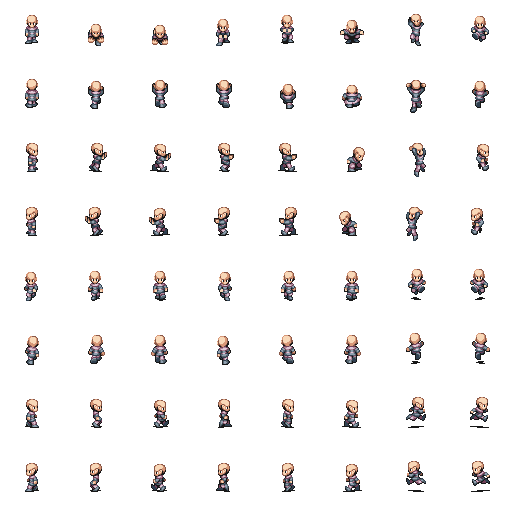
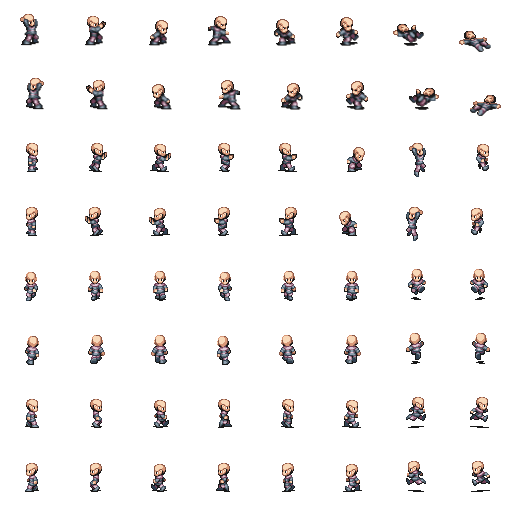
Added new animations and new scale entity function in animation render component.

diff --git a/source/core/src/main/com/csse3200/game/components/player/PlayerAnimationController.java b/source/core/src/main/com/csse3200/game/components/player/PlayerAnimationController.java
@@ -11,6 +11,7 @@ import com.badlogic.gdx.math.Vector2;
 public class PlayerAnimationController extends Component {
     AnimationRenderComponent animator;
     private boolean facingRight = true;
+    private boolean sprinting = false;
 
     @Override
     public void create() {
@@ -19,16 +20,24 @@ public class PlayerAnimationController extends Component {
         entity.getEvents().addListener("walk", this::animateWalk);
         entity.getEvents().addListener("walkStop", this::animateStop);
         entity.getEvents().addListener("jump", this::animateJump);
+        entity.getEvents().addListener("sprintStart", () -> sprinting = true);
+        entity.getEvents().addListener("sprintStop", () -> sprinting = false);
     }
 
     void animateWalk(Vector2 direction) {
-
-        if (direction.x > 0) {
-            facingRight = true;
-            animator.startAnimation("right_run");
+        if(!sprinting) {
+            if (direction.x > 0) {
+                animator.startAnimation("right_walk");
+            } else {
+                animator.startAnimation("left_walk");
+            }
         } else {
-            facingRight = false;
-            animator.startAnimation("left_run");
+            if (direction.x > 0) {
+                animator.startAnimation("right_run");
+            } else {
+                animator.startAnimation("left_run");
+            }
+
         }
     }
 
@@ -47,4 +56,5 @@ public class PlayerAnimationController extends Component {
             animator.startAnimation("left_stand");
         }
     }
+
 }

diff --git a/source/core/src/main/com/csse3200/game/entities/factories/PlayerFactory.java b/source/core/src/main/com/csse3200/game/entities/factories/PlayerFactory.java
@@ -49,6 +49,10 @@ public class PlayerFactory {
     animator.addAnimation("left_jump", 0.1f, Animation.PlayMode.NORMAL);
     animator.addAnimation("right_stand", 0.2f, Animation.PlayMode.LOOP);
     animator.addAnimation("left_stand", 0.2f, Animation.PlayMode.LOOP);
+    animator.addAnimation("right_walk", 0.1f, Animation.PlayMode.LOOP);
+    animator.addAnimation("left_walk", 0.1f, Animation.PlayMode.LOOP);
+    animator.addAnimation("right_crouch", 0.2f, Animation.PlayMode.LOOP);
+    animator.addAnimation("left_crouch", 0.2f, Animation.PlayMode.LOOP);
     animator.startAnimation("right_stand");
     Entity player =
         new Entity()
@@ -65,7 +69,7 @@ public class PlayerFactory {
 
     PhysicsUtils.setScaledCollider(player, 0.6f, 0.3f);
     player.getComponent(ColliderComponent.class).setDensity(1.5f);
-    player.getComponent(AnimationRenderComponent.class).scaleEntity();
+    player.getComponent(AnimationRenderComponent.class).scaleEntity(3f);
     return player;
   }
 

diff --git a/source/core/src/main/com/csse3200/game/areas/ForestGameArea.java b/source/core/src/main/com/csse3200/game/areas/ForestGameArea.java
@@ -115,10 +115,11 @@ public class ForestGameArea extends GameArea {
 
   private void spawnTrees() {
     GridPoint2 minPos = new GridPoint2(0, 0);
-    GridPoint2 maxPos = terrain.getMapBounds(0).sub(2, 2);
+    GridPoint2 maxPos = terrain.getMapBounds(0);
 
-    for (int i = 0; i < NUM_TREES; i++) {
+    for (int i = 0; i < 1000; i++) {
       GridPoint2 randomPos = RandomUtils.random(minPos, maxPos);
+      randomPos.y = 0;
       Entity tree = ObstacleFactory.createTree();
       spawnEntityAt(tree, randomPos, true, false);
     }

diff --git a/source/core/src/main/com/csse3200/game/rendering/AnimationRenderComponent.java b/source/core/src/main/com/csse3200/game/rendering/AnimationRenderComponent.java
@@ -89,6 +89,10 @@ public class AnimationRenderComponent extends RenderComponent {
     return true;
   }
 
+  public void scaleEntity(float size) {
+    TextureRegion defaultTexture = this.atlas.findRegion("default");
+    entity.setScale(size, size * (defaultTexture.getRegionHeight() / defaultTexture.getRegionWidth()));
+  }
   /** Scale the entity to a width of 1 and a height matching the texture's ratio */
   public void scaleEntity() {
     TextureRegion defaultTexture = this.atlas.findRegion("default");

diff --git a/source/core/src/main/com/csse3200/game/components/player/PlayerActions.java b/source/core/src/main/com/csse3200/game/components/player/PlayerActions.java
@@ -14,7 +14,7 @@ import com.badlogic.gdx.utils.Timer;
  */
 public class PlayerActions extends Component {
   private static final Vector2 MAX_SPEED = new Vector2(3f, 3f); // Metres per second
-  private static final Vector2 SPRINT_SPEED = new Vector2(20f, 3f);
+  private static final Vector2 SPRINT_SPEED = new Vector2(10f, 3f);
   private static final Vector2 JUMP_VELOCITY = new Vector2(0f, 2f);
   private static final Vector2 DASH_SPEED = new Vector2(12f, 9.8f);
 
